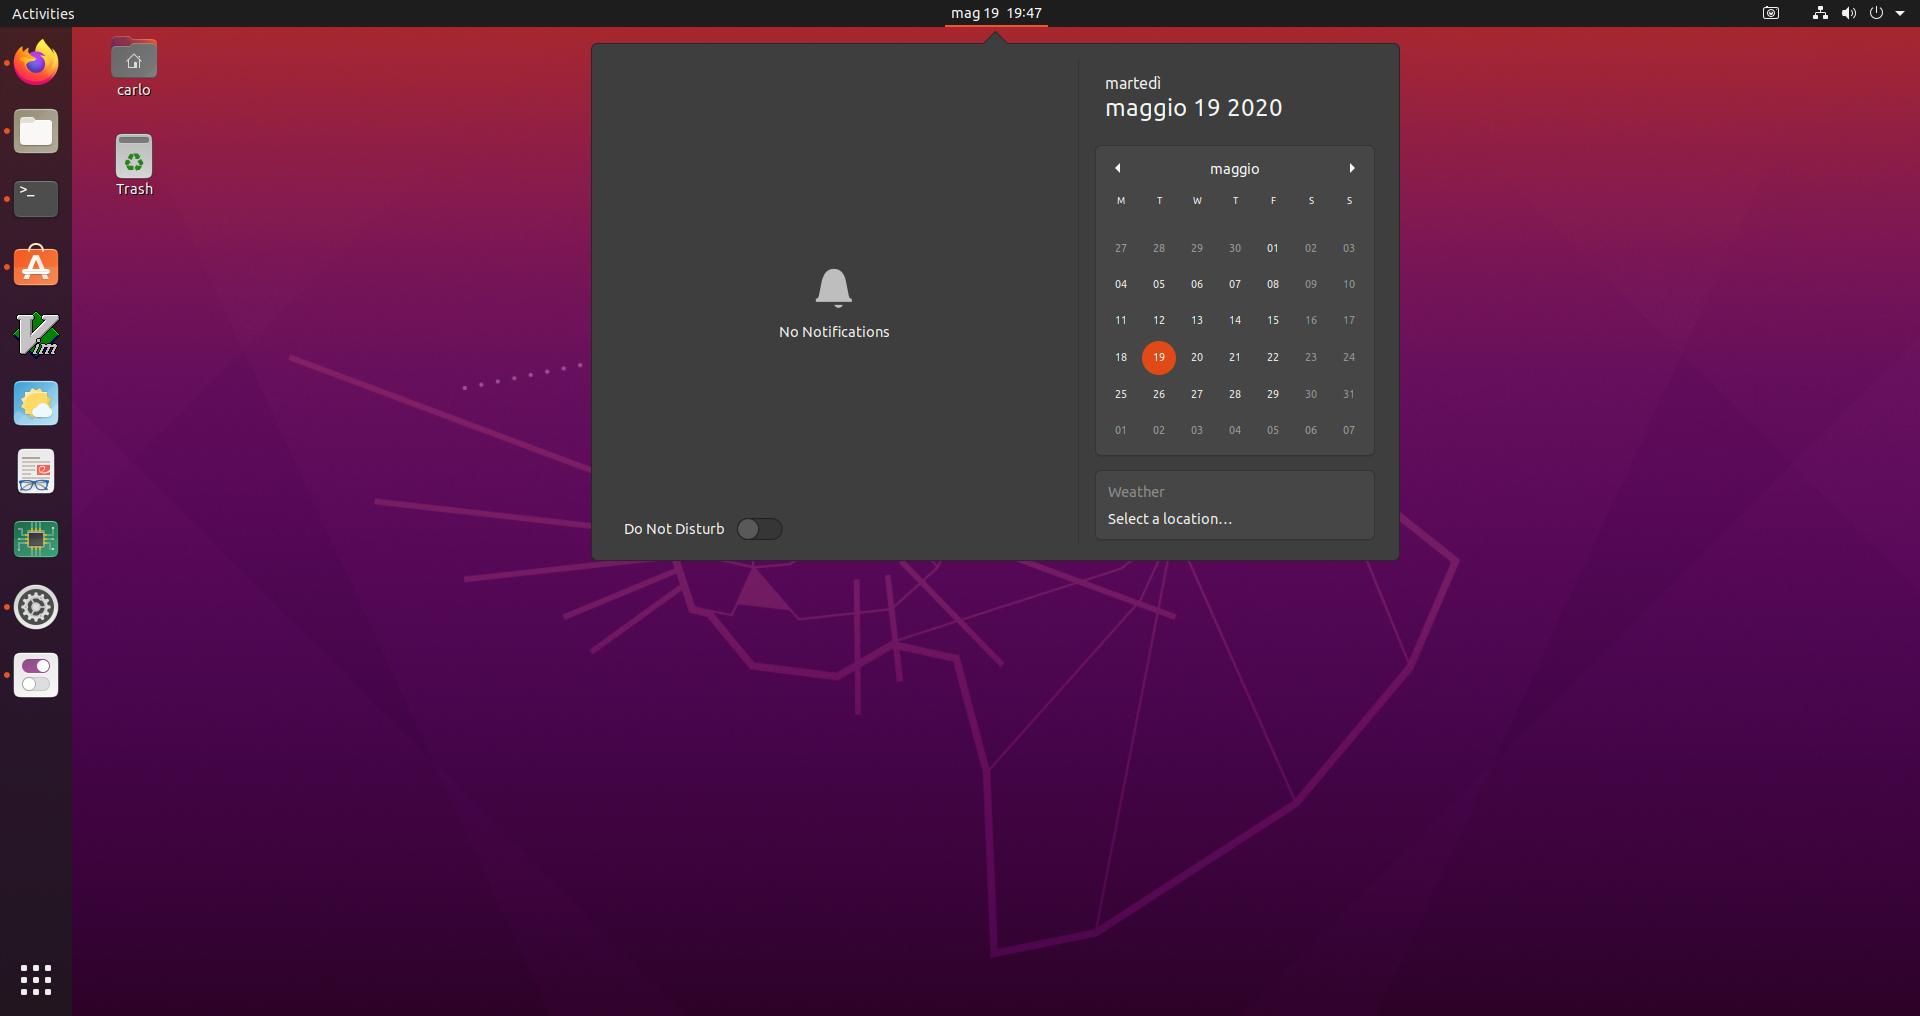
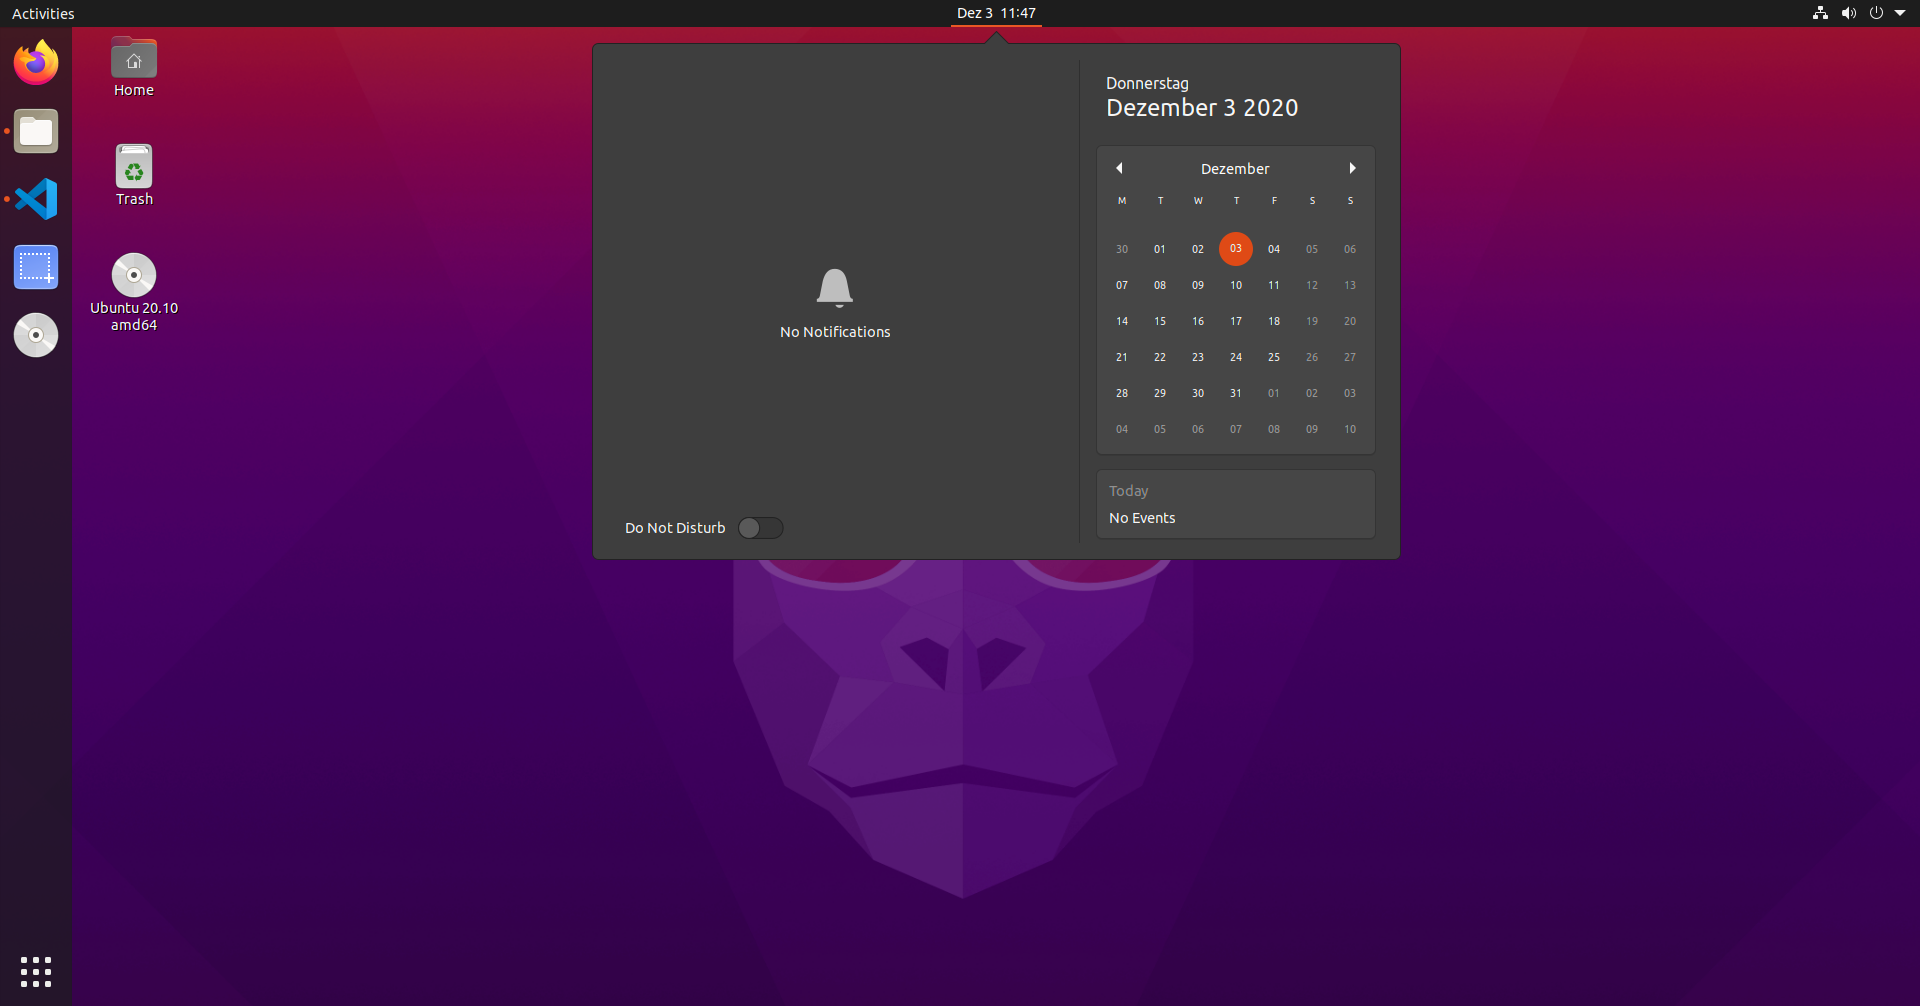
Update README.md pics with groovy yaru

diff --git a/README.md b/README.md
@@ -37,23 +37,6 @@ The Yaru theme suite is installed with Ubuntu 18.10+ by default! No further step
 _Installing from source is not recommended for average usage!_
 
 
-## Using a legacy Yaru/Communitheme version on Ubuntu 18.04 (bionic beaver) via snap installation
-
-> Note that for backward compatibility, we kept the name "communitheme" for bionic beaver. Only icon and sound updates will be pushed into this version of the theme suite.
-
-_These steps only work on Ubuntu 18.04 (bionic beaver)! DO NOT install the snap on 18.10+ installations!_
-
-Follow these steps in order to install and enable communitheme.
-
-1. Install the communitheme snap on 18.04 by installing `communitheme` in the Ubuntu Software Application or running `snap install communitheme`.
-2. Restart your computer.
-4. Click on your user, click on the gear icon and select the "Ubuntu with communitheme snap" session from the pop-up, and login.
-3. Now Ubuntu is using the communitheme including the system, applications, icons, sounds and the cursor.
-
-![install](https://i.imgur.com/Vykmt6N.gif)
-
-![login](https://i.imgur.com/1boZU4F.gif)
-
 ## Copying or Reusing
 
 This project has mixed licencing. You are free to copy, redistribute and/or modify aspects of this work under the terms of each licence accordingly (unless otherwise specified).
